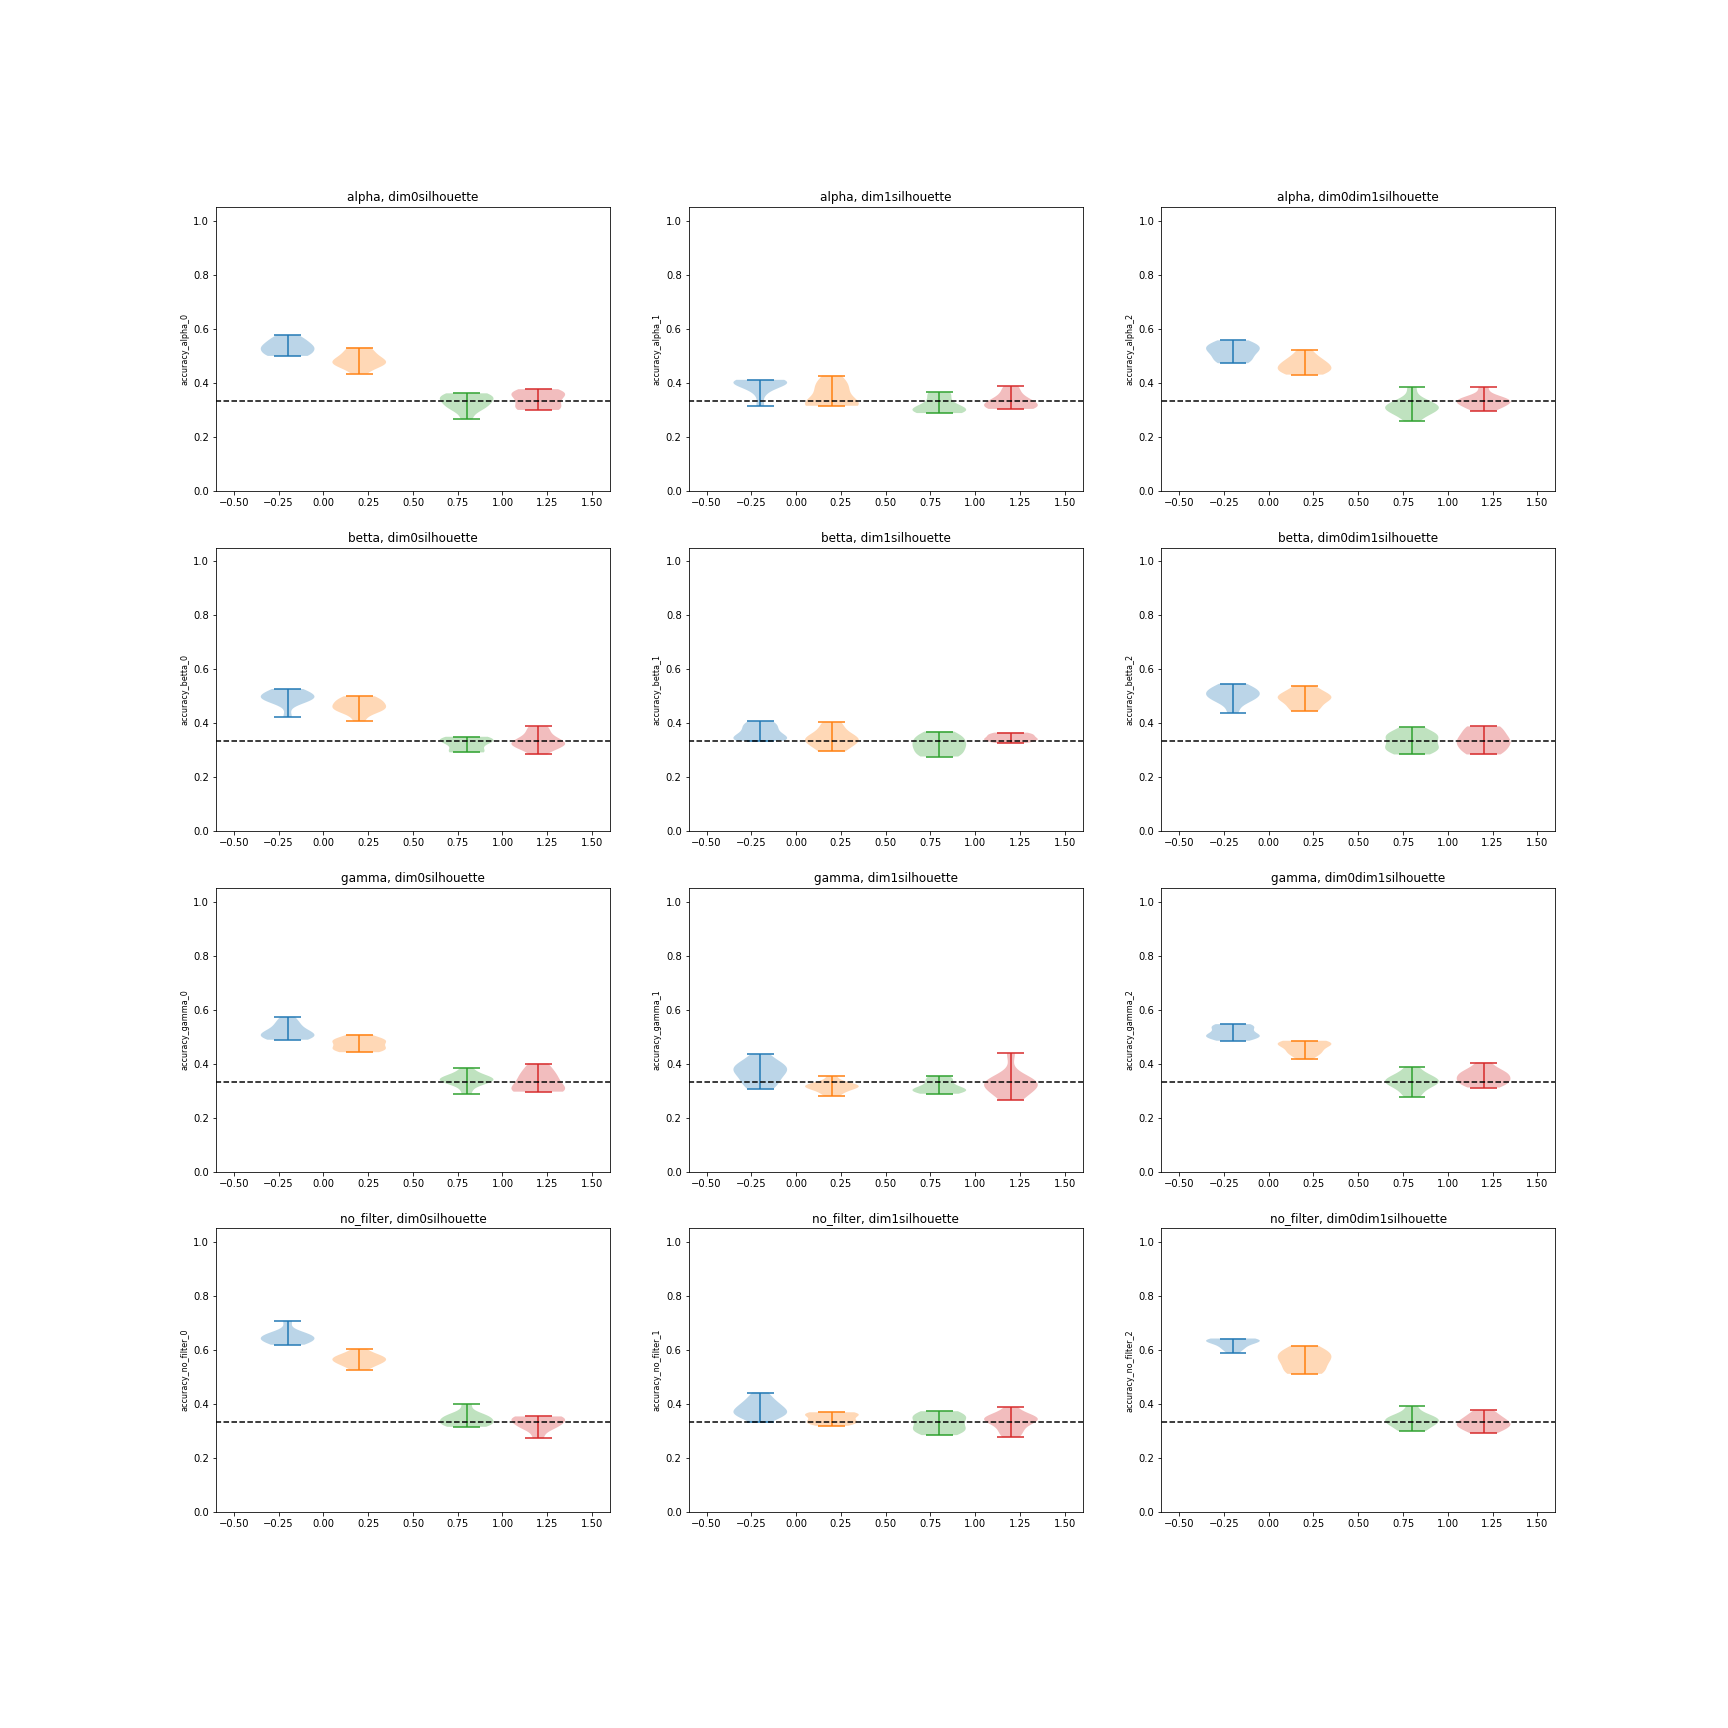
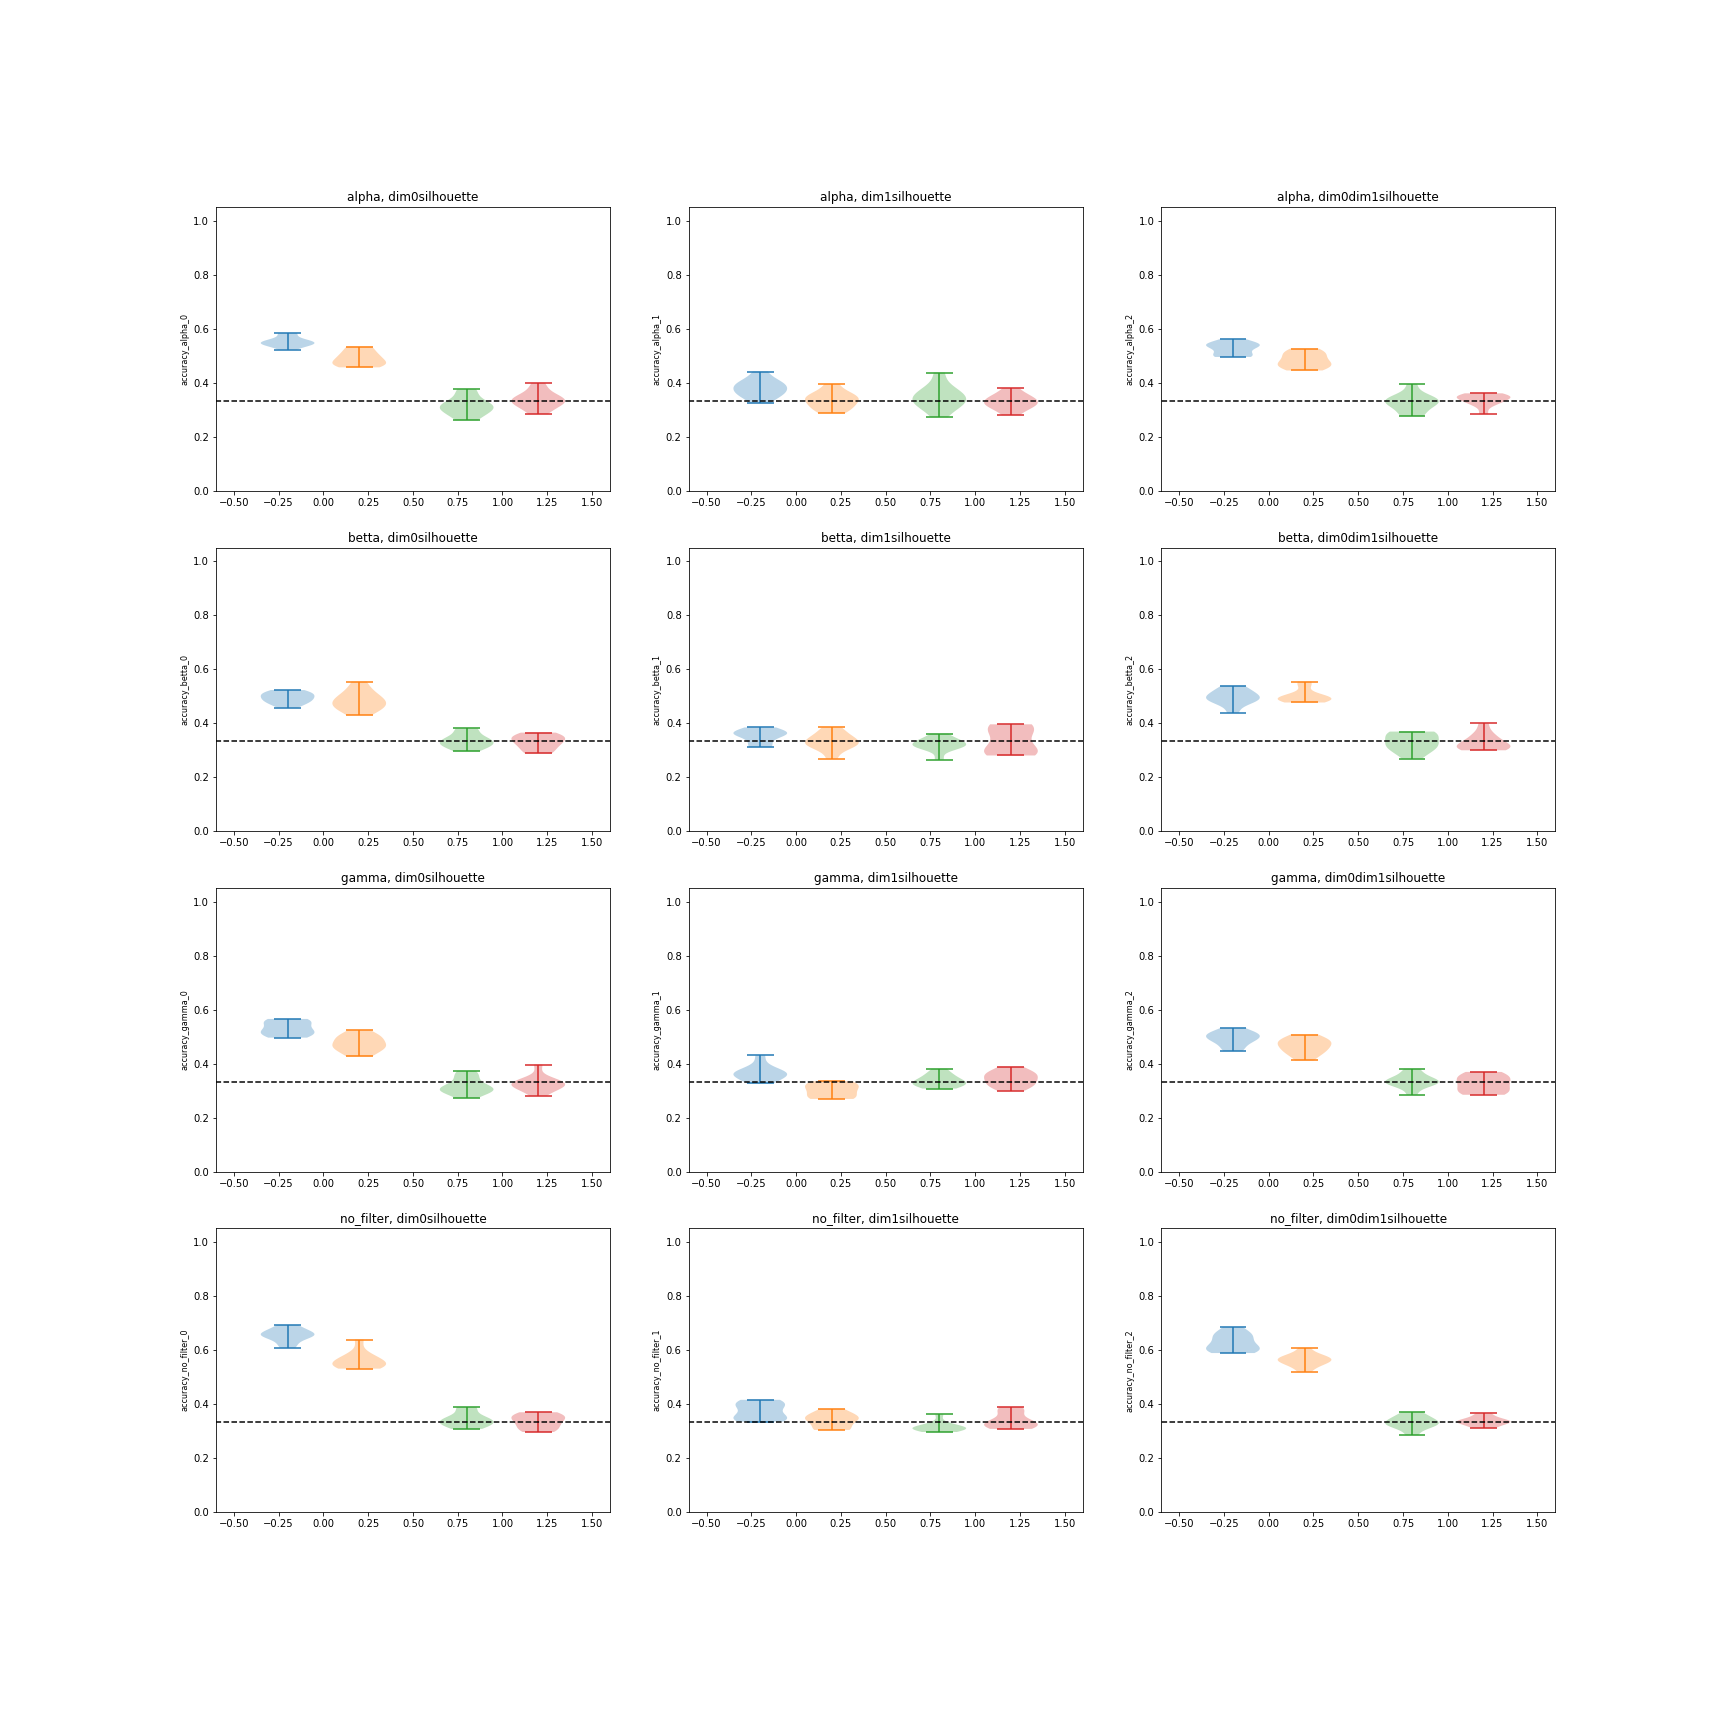
falta a partir del 27

diff --git a/Main_pipeline.py b/Main_pipeline.py
@@ -45,13 +45,13 @@ def load_data(i_sub,space='both'):
         return elec_space,font_space,subj_dir
 
 if __name__ == "__main__":    
-    subjects=[25]
-    #subjects=list(range(25,36))
+    #subjects=[25]
+    subjects=list(range(25,36))
     for subject in subjects:
         t=time.time()
         
-        elec_space,subj_dir=load_data(subject,space='electrode_space')
-        #elec_space,font_space,subj_dir=load_data(subject)
+        #elec_space,subj_dir=load_data(subject,space='electrode_space')
+        elec_space,font_space,subj_dir=load_data(subject)
         
         print('computing persistence of electrode space of subject',subject)
         elec_space_pers=compute_persistence_from_EEG(elec_space,measure='intensities',subj_dir=subj_dir,space='electrode_space',save=True) #pointcloud shape (432, 50)

diff --git a/EEGs_persistence.py b/EEGs_persistence.py
@@ -219,14 +219,13 @@ def plot_landscapes(persistences,subj_dir,space='',measure='',save=False):
     feat_vect_land,labels=feat_vect_silhouettes(np.array(L0),np.array(L1),5000)
     
     get_accuracies_per_band(feat_vect_land,labels,subj_dir,space,measure,500,'landscapes500')
-    get_accuracies_per_band(feat_vect_land,labels,subj_dir,space,measure,1000,'landscapes1000')
+
     
     
     feat_vect_sil,labels=feat_vect_silhouettes(np.array(S0),np.array(S1))
     
     get_accuracies_per_band(feat_vect_sil,labels,subj_dir,space,measure,500,'silhouettes500')
-    get_accuracies_per_band(feat_vect_sil,labels,subj_dir,space,measure,1000,'silhouettes1000')
-    get_accuracies_per_band(feat_vect_sil,labels,subj_dir,space,measure,2000,'silhouettes2000')
+
 
 
     
